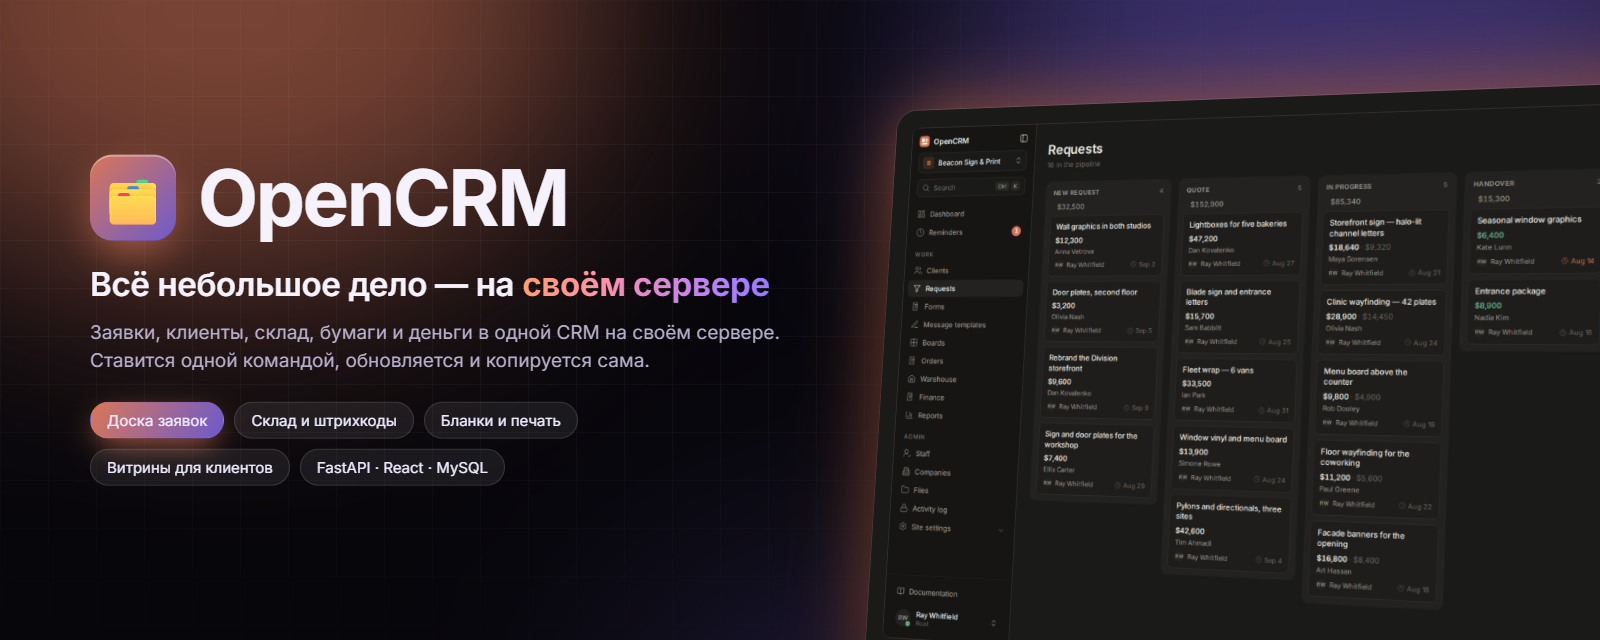
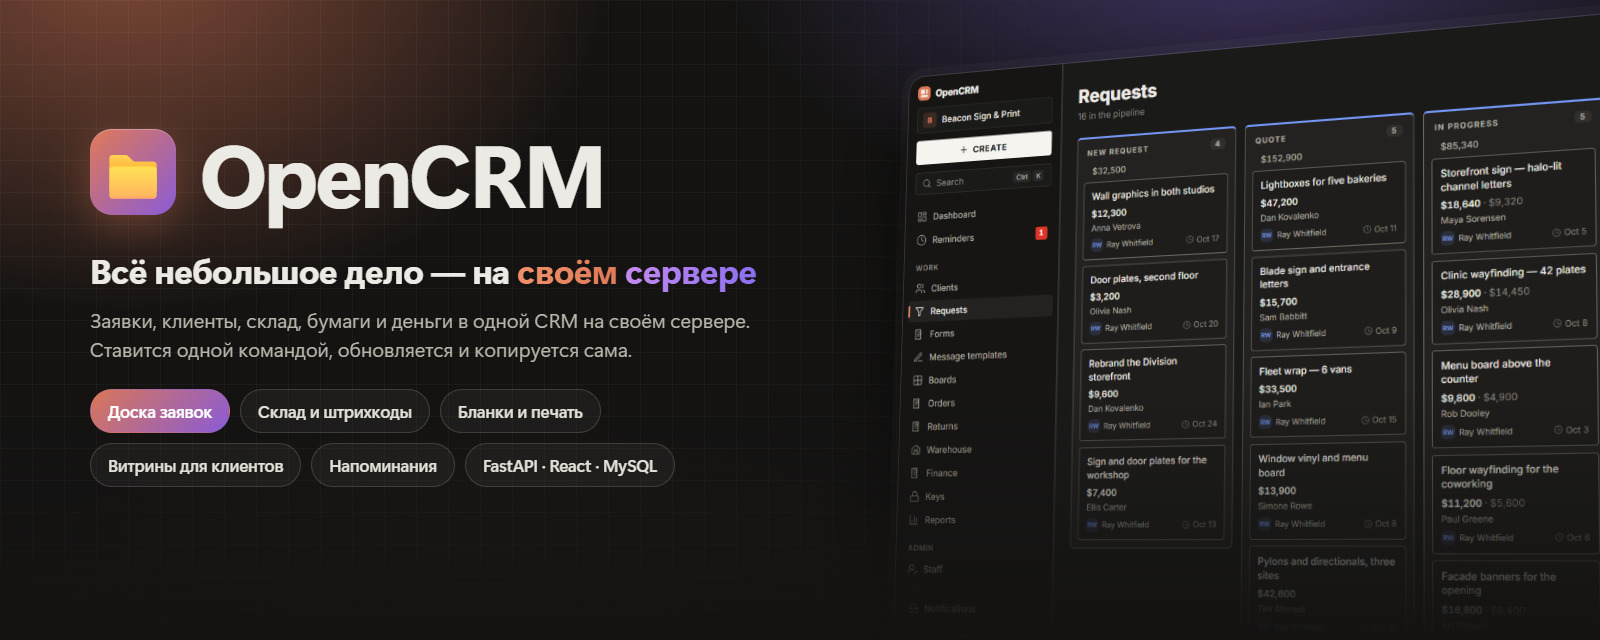
Обновить README под новый дизайн
Новые снимки и гифки интерфейса, баннеры, разделы про напоминания и коды
входа. Сверху — предложение внедрения и сопровождения с контактами и
кнопкой спонсорства.

diff --git a/README.ru.md b/README.ru.md
@@ -16,7 +16,20 @@
 
 [English](README.md) · **Русский**
 
-[Возможности](#-возможности) · [Скриншоты](#-скриншоты) · [Быстрый старт](#-быстрый-старт) · [Использование](#-использование) · [Документация](#-документация)
+[Возможности](#-возможности) · [Скриншоты](#-скриншоты) · [Быстрый старт](#-быстрый-старт) · [Использование](#-использование) · [Документация](#-документация) · [Внедрение и сопровождение](#-внедрение-и-сопровождение)
+
+<table><tr><td align="center">
+
+**Нужна CRM для вашего дела?** Разверну OpenCRM на вашем сервере и возьму на сопровождение:<br />
+установка, перенос данных, обновления и резервные копии, доработка под ваши процессы.<br />
+По стоимости и условиям — напишите на почту, в Telegram или через сайт.
+
+[![Email](https://img.shields.io/badge/Email-denis%40krokosha.com-D97757?style=flat-square&logo=gmail&logoColor=white)](mailto:denis@krokosha.com)
+[![Telegram](https://img.shields.io/badge/Telegram-%40DenisHumen-26A5E4?style=flat-square&logo=telegram&logoColor=white)](https://t.me/DenisHumen)
+[![Website](https://img.shields.io/badge/Website-krokosha.com-3a3a38?style=flat-square&logo=googlechrome&logoColor=white)](https://krokosha.com)
+[![Sponsor](https://img.shields.io/badge/Sponsor-%E2%9D%A4-EA4AAA?style=flat-square&logo=githubsponsors&logoColor=white)](https://github.com/sponsors/DenisHumen)
+
+</td></tr></table>
 
 <br />
 
@@ -78,7 +91,7 @@
 - **Ключи.** Встроенное хранилище вторых факторов (TOTP): шестизначные коды для входа в аккаунты фирмы, с категориями и правами; выключено по умолчанию ([документ 27](docs/bloki/27-klyuchi.md)).
 - **Файлы.** Одно дерево всего, что лежит на сервере: работы досок, вложения клиентов, задач и бланков, снимки товаров ([документ 28](docs/bloki/28-fayly.md)).
 - **Напоминания.** Личные или поставленные коллегам, с календарём месяца, повторами вплоть до «каждые 28 дней» и «последняя пятница», ранними и настойчивыми оповещениями, «отложить» и звонком со звуком в браузере — и при закрытой вкладке, через Web Push с кнопками «Готово» и «Отложить»; привязаны к заявкам, заказам, бумагам и товарам ([документ 29](docs/bloki/29-napominaniya.md)).
-- **Токены сотрудников.** Любая программа или ИИ-агент (Claude через MCP) работает со всем внутренним API как сотрудник — его ролью, со сроком, отзывом, режимом «только чтение» и машинным описанием OpenAPI; сейф паролей, копии и удаление насовсем остаются только людям ([документ 30](docs/bloki/30-tokeny-i-mcp.md)).
+- **Токены сотрудников.** Любая программа или ИИ-ассистент (через MCP) работает со всем внутренним API как сотрудник — его ролью, со сроком, отзывом, режимом «только чтение» и машинным описанием OpenAPI; сейф паролей, копии и удаление насовсем остаются только людям ([документ 30](docs/bloki/30-tokeny-i-mcp.md)).
 - **Уведомления.** Колокольчик с тем, что сделали другие и что сделалось само: закрытые заказы, проведённые накладные, этапы заявок, заявки с сайта, напоминания для вас — и сигнал браузера поверх.
 
 ## 📸 Скриншоты
@@ -196,6 +209,18 @@ Ctrl+K из любого места. Клиенты, заявки и доски 
 Право ограничивает сервер, а не экран. Без права на суммы они не доедут до браузера вовсе: ни в списке, ни в отчёте, ни в выгрузке CSV. Чужие заявки отсекаются фильтром внутри запроса, а не скрытыми через CSS строками.
 
 <div align="center"><img src="docs/images/roles.png" alt="Роли" width="92%" /></div>
+
+### Напоминания
+
+По умолчанию личные, можно ставить коллегам. Календарь на месяц, повторы вплоть до «каждые 28 дней» и «последняя пятница месяца», оповещения заранее, настойчивый звонок, пока не отреагируют, и «отложить» одним нажатием. Браузер звонит и при закрытой вкладке, а напоминание привязывается к клиенту, заявке, заказу или товару.
+
+<div align="center"><img src="docs/images/reminders.png" alt="Напоминания" width="92%" /></div>
+
+### Коды входа
+
+Шестизначные коды от рабочих учёток живут в CRM, а не в телефоне одного сотрудника. Категории и права решают, кто какие видит; ушёл человек — доступ уходит вместе с его учётной записью, и ни один сервис не надо перепривязывать.
+
+<div align="center"><img src="docs/images/keys.png" alt="Ключи" width="92%" /></div>
 
 ### Дашборд
 
@@ -462,6 +487,19 @@ OpenCRM/
 ├── tests/              # набор pytest (гоняется на MySQL)
 └── docs/               # руководство, скриншоты, логотипы
 ```
+
+## 💼 Внедрение и сопровождение
+
+OpenCRM бесплатна: поставить и вести её можно самим, [быстрый старт](#-быстрый-старт) — одна команда. Если заниматься сервером не хочется, сделаю это за вас:
+
+- установка на ваш VPS или своё железо, домен, HTTPS, файрвол и резервные копии;
+- перенос клиентов, склада и истории из таблиц или другой CRM;
+- обновления, мониторинг и помощь, когда что-то пошло не так;
+- новые блоки и доработки под то, как устроено ваше дело.
+
+По стоимости и условиям пишите на [denis@krokosha.com](mailto:denis@krokosha.com), в Telegram [@DenisHumen](https://t.me/DenisHumen) или через сайт [krokosha.com](https://krokosha.com).
+
+Если проект вам пригодился, поддержать разработку можно через [GitHub Sponsors](https://github.com/sponsors/DenisHumen) — или просто поставьте звезду репозиторию.
 
 ## 🤝 Участие в разработке
 

diff --git a/README.md b/README.md
@@ -16,7 +16,20 @@
 
 **English** · [Русский](README.ru.md)
 
-[Features](#-features) · [Screenshots](#-screenshots) · [Quick start](#-quick-start) · [Usage](#-usage) · [Documentation](#-documentation)
+[Features](#-features) · [Screenshots](#-screenshots) · [Quick start](#-quick-start) · [Usage](#-usage) · [Documentation](#-documentation) · [Deployment and support](#-deployment-and-support)
+
+<table><tr><td align="center">
+
+**Want it running for your business?** I install OpenCRM on your server and look after it:<br />
+setup, moving your data in, updates and backups, new modules for the way you work.<br />
+For pricing and terms, get in touch — email, Telegram or the website.
+
+[![Email](https://img.shields.io/badge/Email-denis%40krokosha.com-D97757?style=flat-square&logo=gmail&logoColor=white)](mailto:denis@krokosha.com)
+[![Telegram](https://img.shields.io/badge/Telegram-%40DenisHumen-26A5E4?style=flat-square&logo=telegram&logoColor=white)](https://t.me/DenisHumen)
+[![Website](https://img.shields.io/badge/Website-krokosha.com-3a3a38?style=flat-square&logo=googlechrome&logoColor=white)](https://krokosha.com)
+[![Sponsor](https://img.shields.io/badge/Sponsor-%E2%9D%A4-EA4AAA?style=flat-square&logo=githubsponsors&logoColor=white)](https://github.com/sponsors/DenisHumen)
+
+</td></tr></table>
 
 <br />
 
@@ -76,7 +89,7 @@ Every image below is a screenshot of the real thing. The data is invented: a Por
 - **Keys.** A built-in TOTP vault that shows six-digit sign-in codes for the company's accounts, with categories and permissions; off by default ([doc 27](docs/bloki/27-klyuchi.md)).
 - **Files.** One tree of everything stored on the server — board work, client, task and form attachments, product photos ([doc 28](docs/bloki/28-fayly.md)).
 - **Reminders.** Personal by default or set for colleagues, with a month calendar, repeats down to "every 28 days" or "last Friday", early and persistent alerts, snooze, and a ring with sound in the browser — also with the tab closed, via Web Push with «Done» and «Snooze» buttons; linked to deals, orders, papers and products ([doc 29](docs/bloki/29-napominaniya.md)).
-- **Employee tokens.** Any program or AI agent (Claude via MCP) can work with the whole internal API as an employee — with that employee's role, a term, revocation, a read-only mode and a machine-readable OpenAPI description; the password vault, backups and permanent deletion stay human-only ([doc 30](docs/bloki/30-tokeny-i-mcp.md)).
+- **Employee tokens.** Any program or AI assistant (over MCP) can work with the whole internal API as an employee — with that employee's role, a term, revocation, a read-only mode and a machine-readable OpenAPI description; the password vault, backups and permanent deletion stay human-only ([doc 30](docs/bloki/30-tokeny-i-mcp.md)).
 - **Notifications.** A bell with what others did and what the system did by itself: closed orders, posted waybills, deal stages, website requests, reminders assigned to you — with a browser alert on top.
 
 ## 📸 Screenshots
@@ -194,6 +207,18 @@ A role is a job title with a set of permissions. Five come ready — manager, ac
 Permissions restrict the server, not the screen. Without the right to see amounts, they don't reach the browser at all: not in a list, not in a report, not in a CSV export. Other people's jobs are filtered inside the query rather than hidden with CSS.
 
 <div align="center"><img src="docs/images/roles.png" alt="Roles" width="92%" /></div>
+
+### Reminders
+
+Personal by default or set for colleagues. A month calendar, repeats down to "every 28 days" or "the last Friday of the month", alerts ahead of time, a persistent ring until someone reacts, and snooze in one tap. The browser rings even with the tab closed, and a reminder links to the client, request, order or product it's about.
+
+<div align="center"><img src="docs/images/reminders.png" alt="Reminders" width="92%" /></div>
+
+### Sign-in codes
+
+The six-digit codes for the company's accounts live in the CRM, not on one person's phone. Categories and permissions decide who sees which; when someone leaves, access goes with their account and nobody has to re-pair a single service.
+
+<div align="center"><img src="docs/images/keys.png" alt="Keys" width="92%" /></div>
 
 ### Dashboard
 
@@ -460,6 +485,19 @@ OpenCRM/
 ├── tests/              # pytest suite (runs against MySQL)
 └── docs/               # manual (Russian), screenshots, logos
 ```
+
+## 💼 Deployment and support
+
+OpenCRM is free to install and run yourself — the [quick start](#-quick-start) takes one command. If you'd rather not deal with a server, I can do it for you:
+
+- installation on your VPS or hardware, domain, HTTPS, firewall and backups;
+- moving your clients, stock and history over from spreadsheets or another CRM;
+- updates, monitoring and help when something goes wrong;
+- new modules and changes for the way your business works.
+
+For pricing and terms, write to [denis@krokosha.com](mailto:denis@krokosha.com), message [@DenisHumen](https://t.me/DenisHumen) on Telegram, or reach me through [krokosha.com](https://krokosha.com).
+
+If OpenCRM is useful to you, you can support its development through [GitHub Sponsors](https://github.com/sponsors/DenisHumen) — or just star the repository.
 
 ## 🤝 Contributing
 
